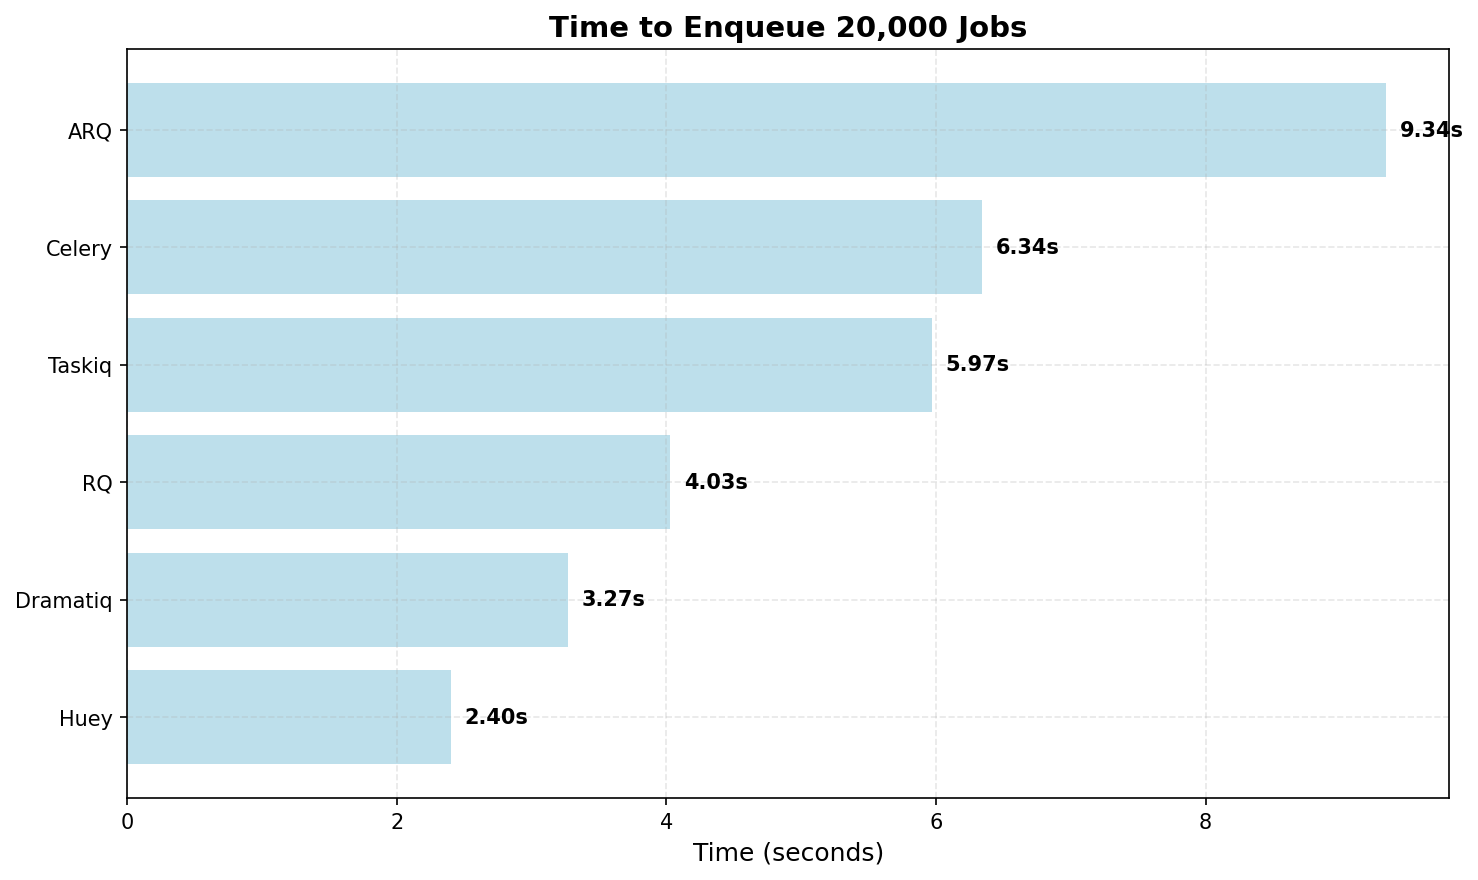
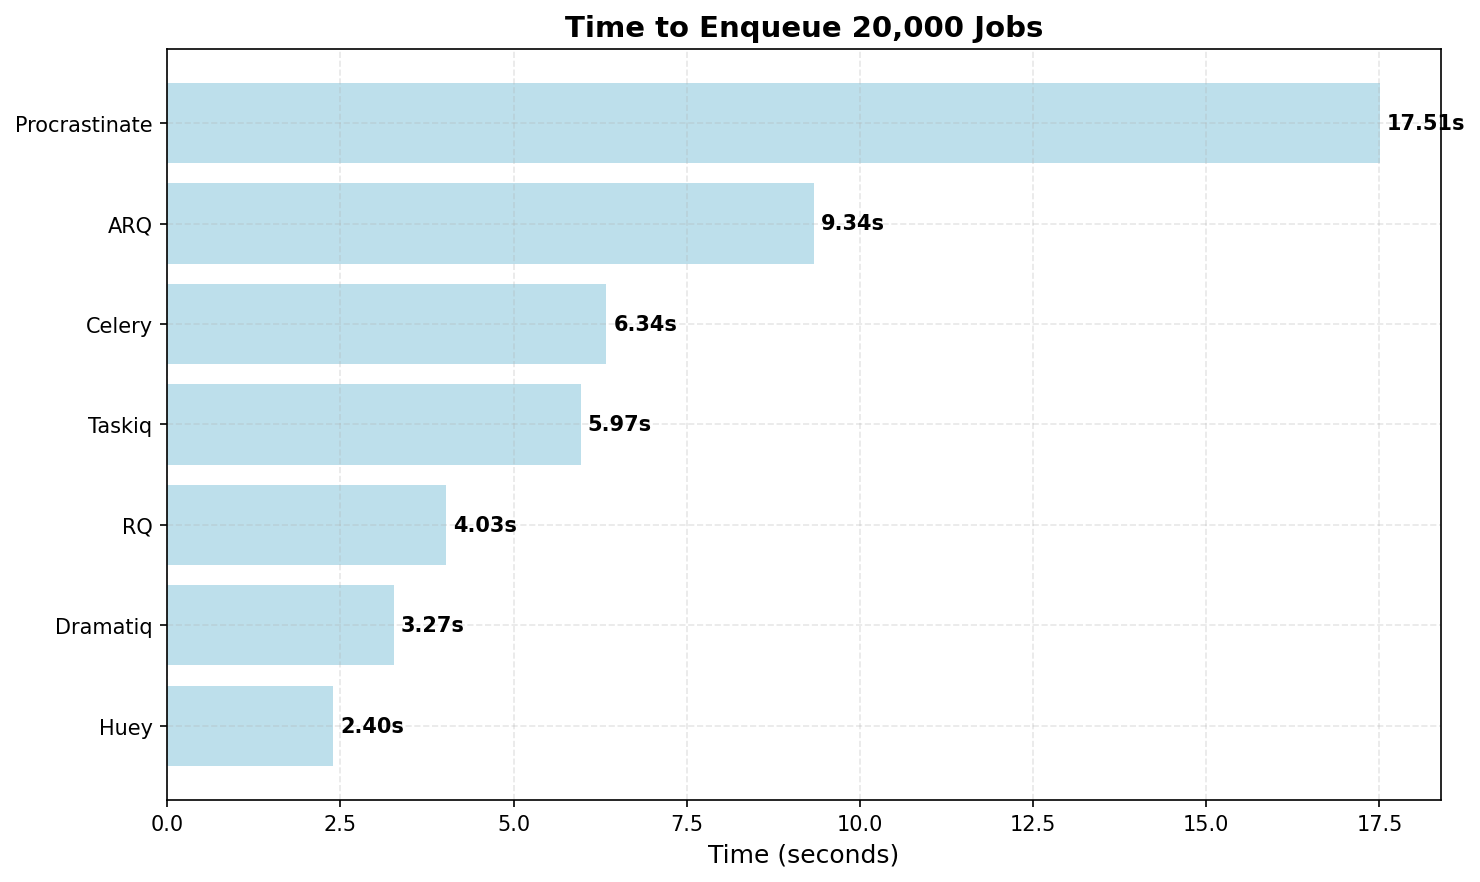
Add benchmark for Procrastinate

diff --git a/procrastinate/enqueue_jobs.py b/procrastinate/enqueue_jobs.py
@@ -1,0 +1,23 @@
+import asyncio
+import os
+import time
+
+from tasks import app, load_test_job
+
+
+total_jobs = int(os.getenv("TOTAL_JOBS", 20000))
+
+
+async def enqueue_jobs():
+    async with app.open_async():
+        start_time = time.time()
+        for i in range(total_jobs):
+            print(f"Enqueuing job {i}")
+            await load_test_job.defer_async(num=i)
+        end_time = time.time()
+        print("All jobs enqueued within: ", end_time - start_time, "seconds")
+
+
+if __name__ == "__main__":
+    asyncio.run(enqueue_jobs())
+

diff --git a/generate_charts.py b/generate_charts.py
@@ -14,7 +14,8 @@ enqueue_data = {
     'Celery': 6.34,
     'Huey': 2.40,
     'Dramatiq': 3.27,
-    'Taskiq': 5.97
+    'Taskiq': 5.97,
+    'Procrastinate': 17.51,
 }
 
 # Finish times data (excluding Dramatiq 10p, 8t for fair comparison)
@@ -27,7 +28,8 @@ finish_data = {
     'Huey (Processes)': 3.62,
     'Dramatiq (1p, 10t)': 4.12,
     'Dramatiq (10p, 1t)': 4.35,
-    'Taskiq (10 workers)': 2.03
+    'Taskiq (10 workers)': 2.03,
+    'Procrastinate (10 concurrency)': 27.46,
 }
 
 def create_enqueue_chart():

diff --git a/procrastinate/tasks.py b/procrastinate/tasks.py
@@ -1,0 +1,18 @@
+import time
+from procrastinate import App, PsycopgConnector
+
+
+# Use explicit DSN so it works out-of-the-box with docker-compose Postgres
+app = App(
+    connector=PsycopgConnector(
+        conninfo="postgresql://postgres:password@localhost:5432/procrastinate"
+    )
+)
+
+
+@app.task
+async def load_test_job(num: int):
+    end_time = time.time()
+    print(f"Job {num} finished at {end_time}")
+    return
+

diff --git a/README.md b/README.md
@@ -16,6 +16,7 @@ The task queue libraries in this benchmark:
 - [Huey](https://huey.readthedocs.io/en/latest/)
 - [Dramatiq](https://dramatiq.io/index.html)
 - [Taskiq](https://taskiq-python.github.io/)
+ - [Procrastinate](https://procrastinate.readthedocs.io/)
 
 ## Test Method
 
@@ -188,6 +189,35 @@ The taskiq is set up using the `RedisStreamBroker` from `taskiq-redis`.
 
 - All jobs enqueued within: 5.97 seconds
 - With 10 workers, finished in 2.03 seconds
+
+
+## Procrastinate
+
+Procrastinate stores jobs in PostgreSQL instead of Redis.
+
+1. Navigate to the Procrastinate directory:
+   ```bash
+   cd procrastinate
+   ```
+2. Apply the Procrastinate DB schema (one-time or after DB reset):
+   ```bash
+   export PYTHONPATH=.
+   procrastinate --app=tasks.app schema --apply
+   ```
+3. Enqueue the jobs:
+   ```bash
+   python enqueue_jobs.py
+   ```
+4. Process jobs with 10 workers:
+   ```bash
+   python -c "import time; print(f'Start time: {time.time()}')" > time.log && procrastinate --app=tasks.app worker --concurrency 10
+   ```
+5. Record the time when the last job finishes and note the start time in `time.log`. Calculate the difference.
+
+### Results
+
+- All jobs enqueued within: 17.51 seconds
+- With 10 concurrency, finished in: 27.46 seconds
 
 
 ## TODO
